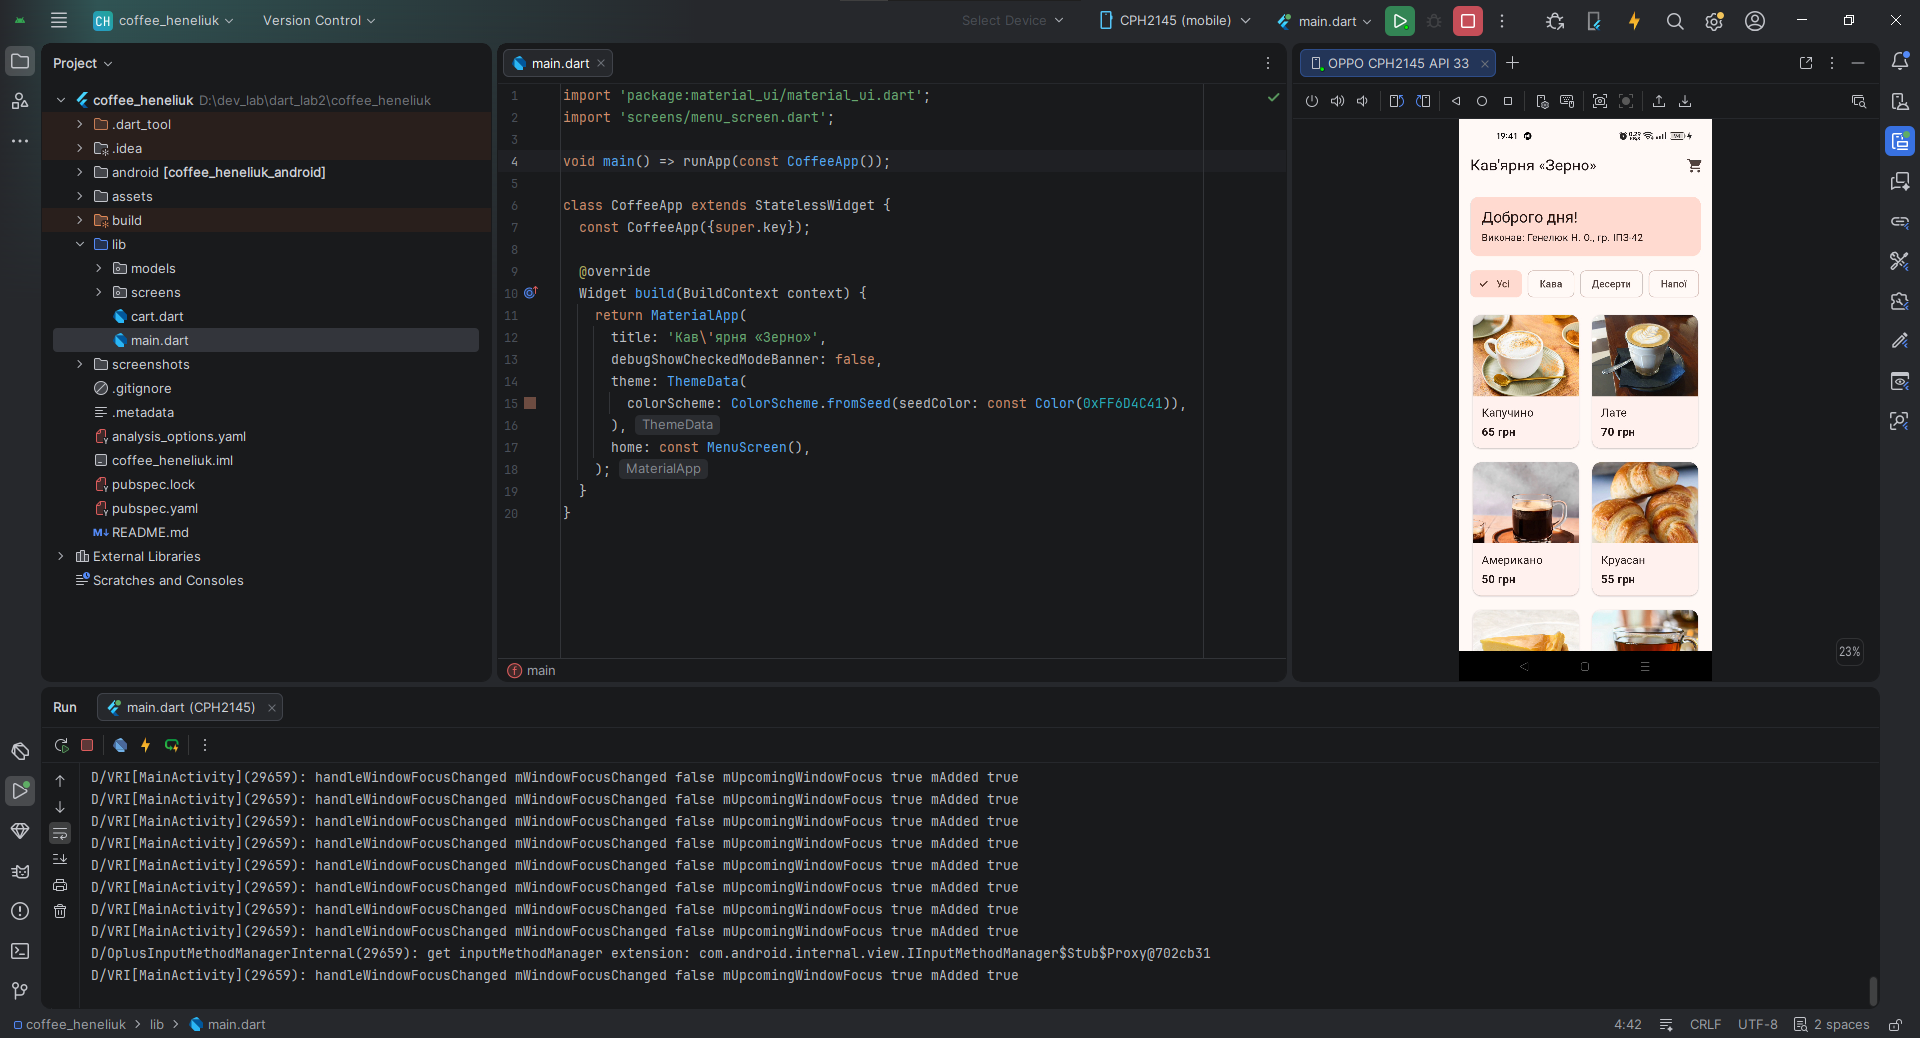
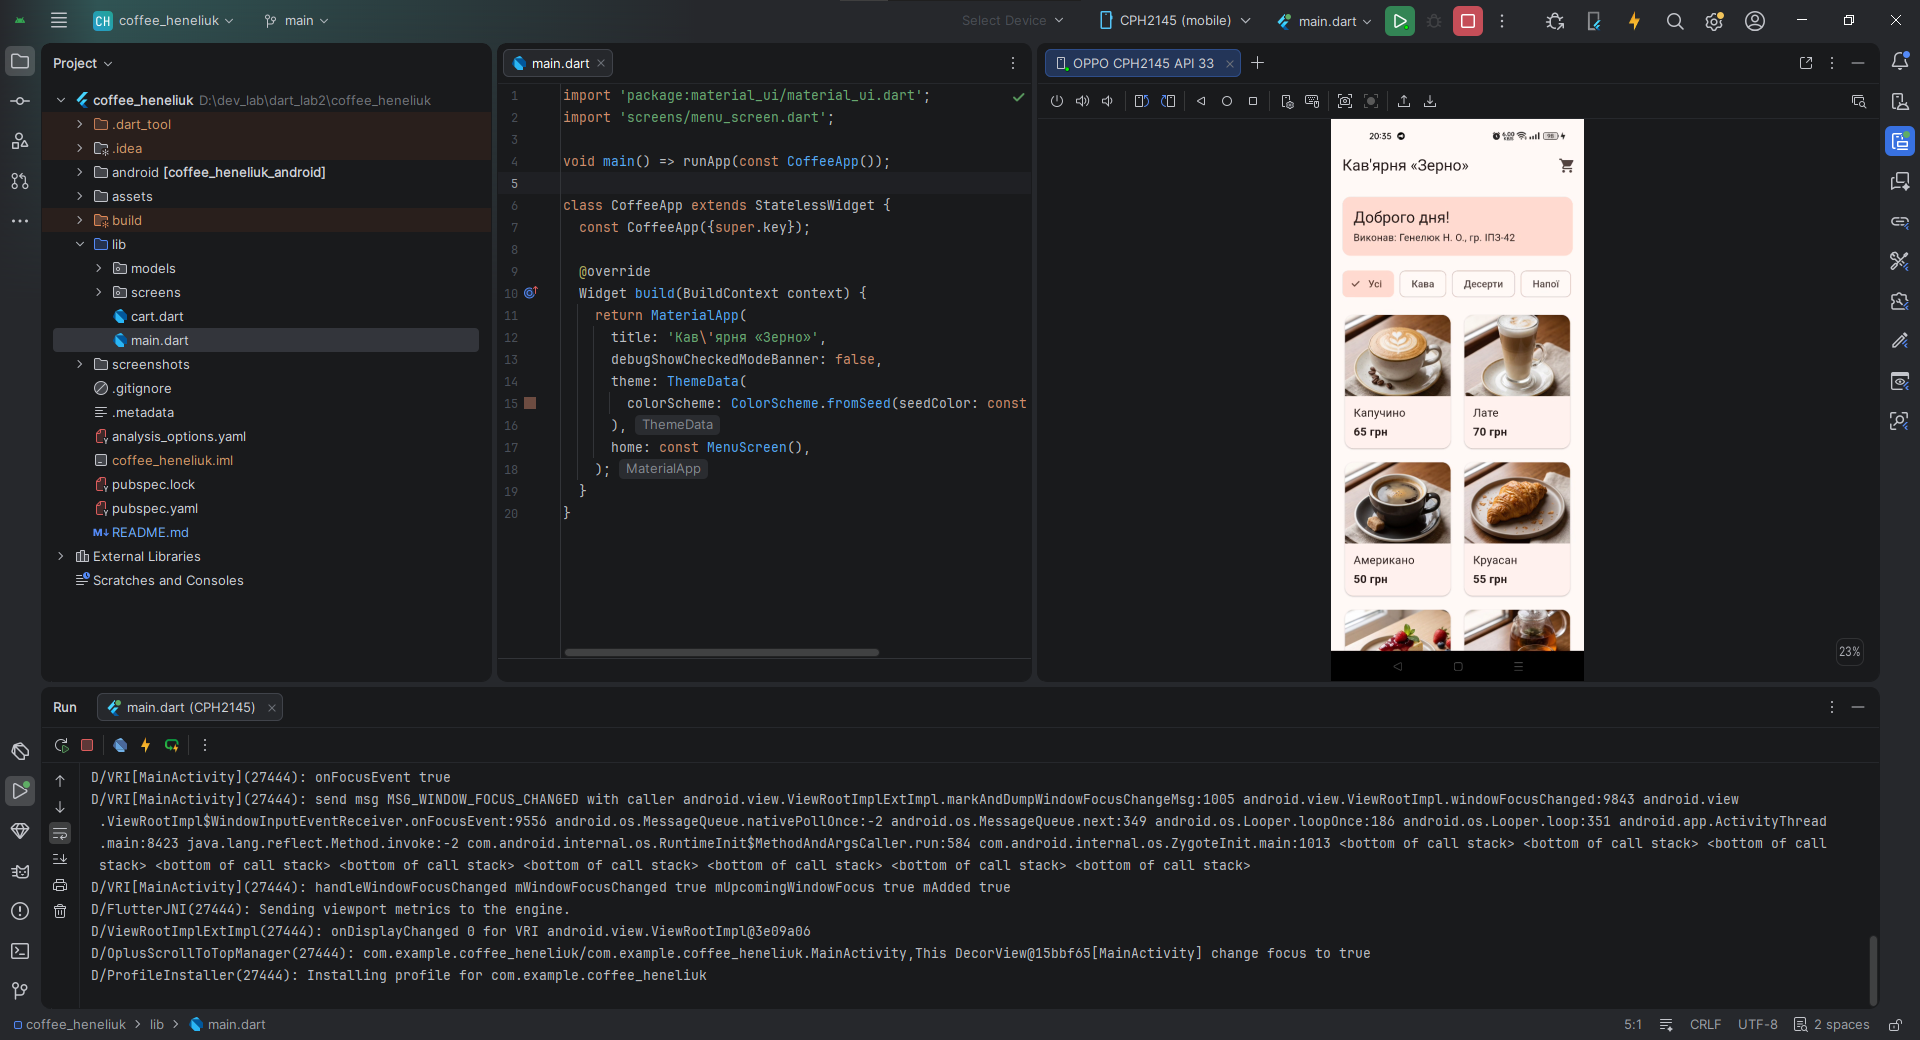
Оновлено зображення товарів, скріншоти та README

diff --git a/lib/models/product.dart b/lib/models/product.dart
@@ -32,7 +32,7 @@ const products = <Product>[
         'Об\'єм 250 мл.',
     icon: Icons.coffee,
     color: Color(0xFFD7CCC8),
-    image: 'assets/images/cappuccino.png',
+    image: 'assets/images/cappuccino.jpg',
   ),
   Product(
     id: 2,
@@ -42,7 +42,7 @@ const products = <Product>[
     description: 'Багато молока, трохи еспресо. Об\'єм 300 мл.',
     icon: Icons.local_cafe,
     color: Color(0xFFFFE0B2),
-    image: 'assets/images/latte.png',
+    image: 'assets/images/latte.jpg',
   ),
   Product(
     id: 3,
@@ -52,7 +52,7 @@ const products = <Product>[
     description: 'Еспресо, розбавлений гарячою водою. Об\'єм 250 мл.',
     icon: Icons.free_breakfast,
     color: Color(0xFFBCAAA4),
-    image: 'assets/images/americano.png',
+    image: 'assets/images/americano.jpg',
   ),
   Product(
     id: 4,
@@ -62,7 +62,7 @@ const products = <Product>[
     description: 'Листкове тісто на вершковому маслі.',
     icon: Icons.bakery_dining,
     color: Color(0xFFFFECB3),
-    image: 'assets/images/croissant.png',
+    image: 'assets/images/croissant.jpg',
   ),
   Product(
     id: 5,
@@ -72,7 +72,7 @@ const products = <Product>[
     description: 'Класичний чізкейк Нью-Йорк із ягідним соусом.',
     icon: Icons.cake,
     color: Color(0xFFF8BBD0),
-    image: 'assets/images/cheesecake.png',
+    image: 'assets/images/cheesecake.jpg',
   ),
   Product(
     id: 6,
@@ -82,6 +82,6 @@ const products = <Product>[
     description: 'Зелений чай із жасмином. Об\'єм 400 мл.',
     icon: Icons.emoji_food_beverage,
     color: Color(0xFFC8E6C9),
-    image: 'assets/images/tea.png',
+    image: 'assets/images/tea.jpg',
   ),
 ];

diff --git a/README.md b/README.md
@@ -14,7 +14,7 @@
 
 ## Джерела зображень
 
-Зображення товарів у каталозі `assets/images/` (`cappuccino.png`, `latte.png`, `americano.png`, `croissant.png`, `cheesecake.png`, `tea.png`) використані з відкритих джерел із вільною ліцензією.
+Зображення товарів у каталозі `assets/images/` (`cappuccino.jpg`, `latte.jpg`, `americano.jpg`, `croissant.jpg`, `cheesecake.jpg`, `tea.jpg`) згенеровані автором за допомогою Gemini (Nano Banana).
 
 ## Скріншоти
 
@@ -30,7 +30,7 @@
 
 ![Меню](screenshots/03_menu.jpg)
 
-4. **Екран «Деталі товару»** — перегляд товару «Чізкейк» із зображенням, ціною, описом та вибором кількості.
+4. **Екран «Деталі товару»** — перегляд товару «Круасан» із зображенням, ціною, описом та вибором кількості.
 
 ![Деталі товару](screenshots/04_details.jpg)
 
@@ -38,15 +38,15 @@
 
 ![Меню після додавання](screenshots/05_menu_added.jpg)
 
-6. **Екран «Меню» з фільтром категорій** — вибрана категорія «Кава».
+6. **Екран «Меню» з фільтром категорій** — вибрана категорія «Десерти».
 
 ![Фільтр категорій](screenshots/06_filter.jpg)
 
-7. **Екран «Кошик»** — три різні товари з кількістю ≥ 2 та підсумковою сумою `715 грн`.
+7. **Екран «Кошик»** — п'ять різних товарів із кількістю ≥ 2 та підсумковою сумою `1040 грн`.
 
 ![Кошик](screenshots/07_cart.jpg)
 
-8. **Екран «Кошик» після видалення позиції свайпом** — позицію «Чай» видалено, суму перераховано (`490 грн`).
+8. **Екран «Кошик» після видалення позиції свайпом** — позицію «Американо» видалено, суму перераховано (`840 грн`).
 
 ![Кошик після видалення](screenshots/08_cart_deleted.jpg)
 
